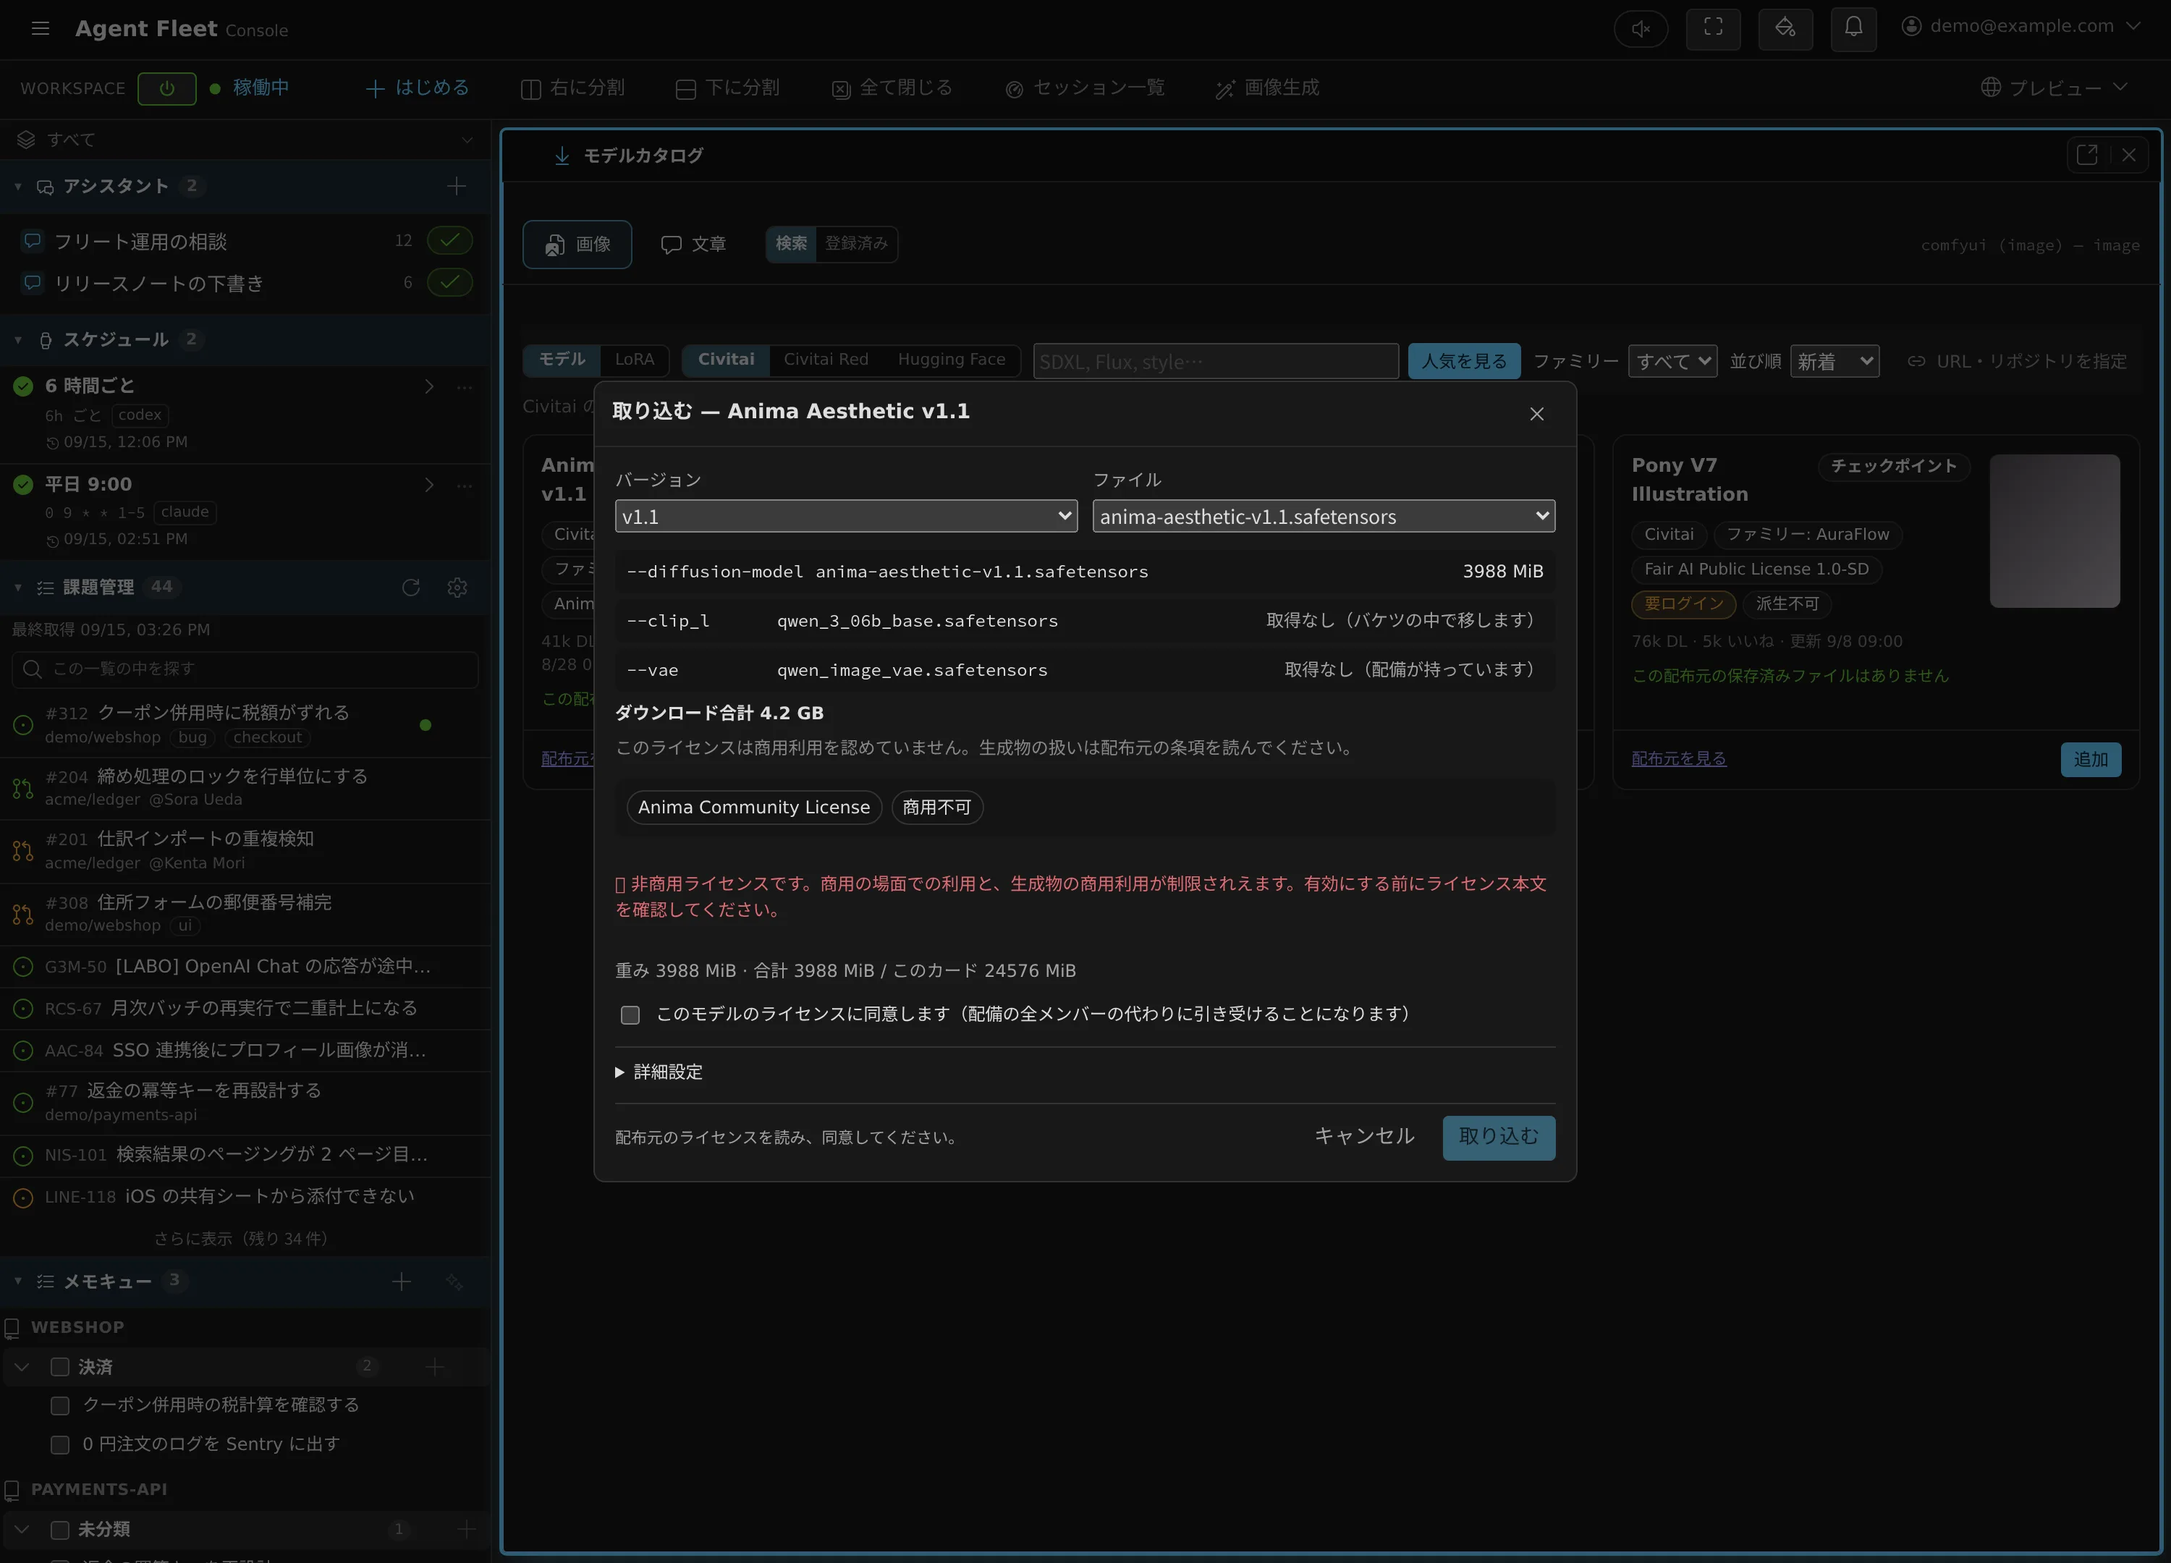
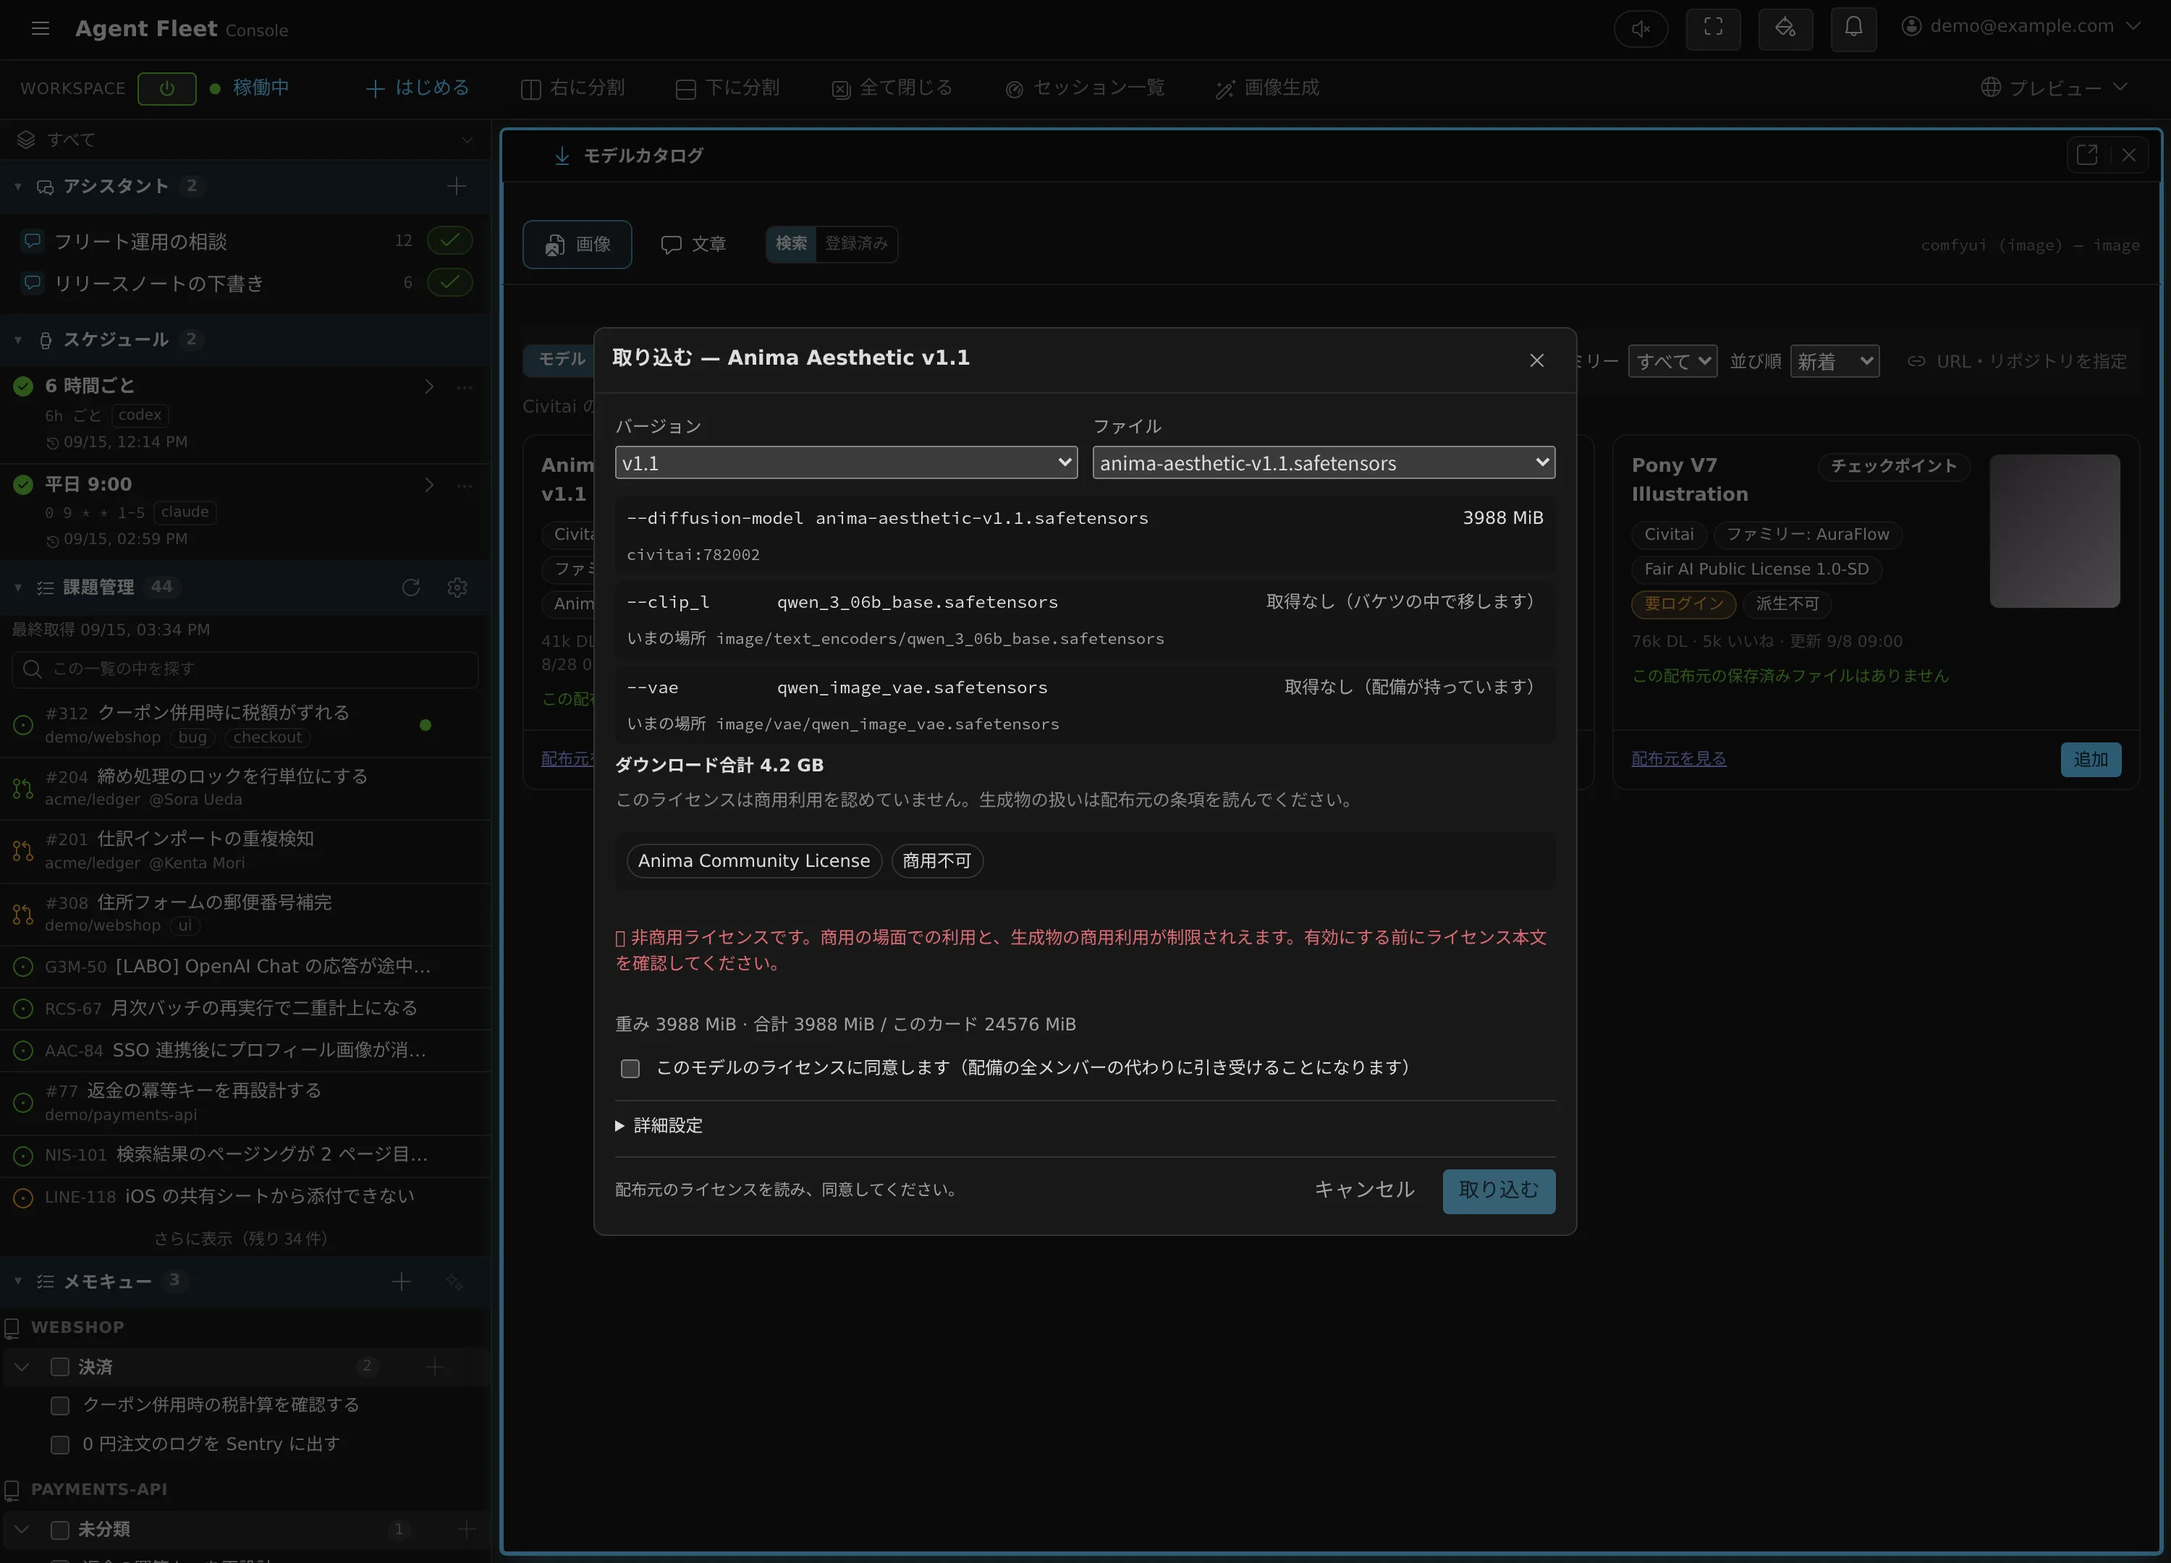
fix(console): CP レーン B の契約 2 点を計画カードに反映する（ADR 0085）
レーン B（PR #695）から届いた実装との差分のうち、画面側で対応が要る 2 点。

- `plan.files[].source` は action で意味が変わる。download なら上流のラベル、
  reuse/move なら**いまバイト列が置かれている S3 鍵**（move の出所が計画のハッシュに
  入るので、カードと押下の間でオブジェクトが動いたら移設ではなく token が古くなる）。
  分岐せずに描くと、「いまの場所」がリポジトリ名になるか、ダウンロードがバケツから
  来ているように読める。
- `POST …/ingest` の応答に `action` が増えた。reuse/move はネットワークを渡らないので、
  開始の知らせを「ダウンロードはありません」に切り替える。出てこない通信を待たせない。

`plan_token` は元から必ず送っており、resolve の旧フィールド（family_*）は読んでいない
ので変更なし。errors.ts はレーン B が入れた 2 行で足りるため触っていない（衝突なし）。

検証: dom テストに 2 点とも追加（source の 2 義を行ごとに、開始の知らせを action 別に）。
typecheck / lint / i18n:lint / test（2920 passed）/ build 緑。stub の fixture も契約に
合わせ、計画カードの撮り直し済み。

diff --git a/console/src/features/settings/admin/adminEngineCatalog.dom.test.tsx b/console/src/features/settings/admin/adminEngineCatalog.dom.test.tsx
@@ -182,15 +182,15 @@ describe("model catalogue pane", () => {
         plan: {
           plan_token: "plan-1", id: "anima-aesthetic-v1-1", base_model: "anima", main_flag: "--diffusion-model",
           files: [
-            { flag: "--diffusion-model", name: "anima-aesthetic-v1.1.safetensors", bytes: 4_180_000_000, action: "download", key: "image/diffusion_models/anima-aesthetic-v1.1.safetensors" },
-            { flag: "--clip_l", name: "qwen_3_06b_base.safetensors", bytes: 1_190_000_000, action: "download", key: "image/text_encoders/qwen_3_06b_base.safetensors" },
-            { flag: "--vae", name: "qwen_image_vae.safetensors", bytes: 253_800_000, action: "reuse", key: "image/vae/qwen_image_vae.safetensors" },
+            { flag: "--diffusion-model", name: "anima-aesthetic-v1.1.safetensors", bytes: 4_180_000_000, action: "download", source: "hf:circlestone-labs/Anima/anima-aesthetic-v1.1.safetensors", key: "image/diffusion_models/anima-aesthetic-v1.1.safetensors" },
+            { flag: "--clip_l", name: "qwen_3_06b_base.safetensors", bytes: 1_190_000_000, action: "download", source: "hf:circlestone-labs/Anima/qwen_3_06b_base.safetensors", key: "image/text_encoders/qwen_3_06b_base.safetensors" },
+            { flag: "--vae", name: "qwen_image_vae.safetensors", bytes: 253_800_000, action: "reuse", source: "image/vae/qwen_image_vae.safetensors", key: "image/vae/qwen_image_vae.safetensors" },
           ],
           bytes_to_download: 5_370_000_000,
           warnings: ["この族の VAE は既にこの配備にあります。"],
         },
       });
-      if (path.endsWith("/ingest")) { sent = body; return Promise.resolve({ id: "job1", model_id: "anima-aesthetic-v1-1", state: "pending" }); }
+      if (path.endsWith("/ingest")) { sent = body; return Promise.resolve({ id: "job1", model_id: "anima-aesthetic-v1-1", state: "pending", action: "download" }); }
       return Promise.resolve({});
     });
     await mount();
@@ -203,6 +203,11 @@ describe("model catalogue pane", () => {
     expect(plan.textContent).toContain("--clip_l");
     expect(plan.textContent).toContain("取得なし（配備が持っています）");
     expect(document.querySelector(".engine-plan-total")?.textContent).toContain("5.4 GB");
+    // 🔴 `source` carries two different things and the action is what says which: the upstream
+    // for a download, the key the bytes sit at today for a reuse or a move.
+    const lines = Array.from(plan.querySelectorAll("li"));
+    expect(lines[0].querySelector(".engine-plan-source")?.textContent).toBe("hf:circlestone-labs/Anima/anima-aesthetic-v1.1.safetensors");
+    expect(lines[2].querySelector(".engine-plan-source")?.textContent).toBe("いまの場所 image/vae/qwen_image_vae.safetensors");
     // The commercial-use verdict is said ONCE, as the sentence: a chip saying the same thing in
     // another wording beside it reads as two separate restrictions.
     expect(document.querySelector("p.form-err")?.textContent).toContain("非商用ライセンスです");
@@ -221,6 +226,7 @@ describe("model catalogue pane", () => {
     for (const gone of ["s3Key", "reuse_s3_key", "attach", "replace", "file_flag", "with_family_parts", "with_family_vae"]) {
       expect(sent?.[gone]).toBeUndefined();
     }
+    expect(document.body.textContent).toContain("取り込みを開始しました");
   });
 
   // 🔴 The plan is a quote and the press is the purchase. A card can sit open for minutes, and
@@ -248,7 +254,10 @@ describe("model catalogue pane", () => {
             files: [{ name: "model.safetensors", action: "download", bytes: 3_000_000_000 }], bytes_to_download: 3_000_000_000,
           } } });
         }
-        return Promise.resolve({ id: "job2", model_id: "example", state: "pending" });
+        // A press the CP answered with `reuse`: the bytes were already here, so nothing crosses
+        // the network — and telling somebody to watch a download would be telling them to watch
+        // for something that never appears.
+        return Promise.resolve({ id: "job2", model_id: "example", state: "pending", action: "reuse" });
       }
       return Promise.resolve({});
     });
@@ -266,6 +275,7 @@ describe("model catalogue pane", () => {
     await acceptLicence();
     await click(button("取り込む"));
     expect(sent[1]?.plan_token).toBe("fresh");
+    expect(document.body.textContent).toContain("ダウンロードはありません");
   });
 
   it("asks for a family only when the CP could not read one, and only from its candidates", async () => {

diff --git a/console/src/features/settings/admin/adminEngineAdd.tsx b/console/src/features/settings/admin/adminEngineAdd.tsx
@@ -235,9 +235,12 @@ function CatalogBrowser({ row, kind, onKind, readOnly, onChanged, image }: Catal
         count={hits?.length || 0} onMore={() => void search(true)} />}
       {plan && <IngestPlanDialog row={row} kind={kind} hit={plan.hit} initialSource={plan.source}
         onClose={() => setPlan(null)}
-        onStarted={() => {
+        onStarted={(job) => {
           setPlan(null);
-          setStarted(tr("admin.catalog_started" as never) as string);
+          // Which of the three the press turned out to be: a reuse or a move crosses no network,
+          // so telling somebody to watch a download would have them watching for nothing.
+          setStarted(tr((job?.action && job.action !== "download"
+            ? "admin.catalog_started_no_download" : "admin.catalog_started") as never) as string);
           void loadObjects();
           onChanged();
         }} />}
@@ -1043,6 +1046,12 @@ function IngestPlanDialog({ row, kind, hit, initialSource, onClose, onStarted }:
           <span className={`engine-plan-cost${planned.action === "download" ? "" : " free"}`}>{planned.action === "download"
             ? (planned.bytes ? `${Math.round(planned.bytes / 1048576)} MiB` : tr("admin.catalog_size_unknown" as never))
             : tr((`admin.catalog_plan_action_${planned.action}`) as never)}</span>
+          {/* One field, two meanings, told apart by the action: the upstream for a download and
+              the key the bytes are at TODAY for a reuse or a move. Drawn unbranched, "いまの場所"
+              would name a repository and a download would claim to come from the bucket. */}
+          {planned.source && <span className="muted mono engine-plan-source">{planned.action === "download"
+            ? planned.source
+            : (tr("admin.catalog_plan_at" as never) as string).replace("{k}", planned.source)}</span>}
         </li>)}</ul>
         <p className="engine-plan-total">{plan.bytes_to_download
           ? (tr("admin.catalog_plan_total" as never) as string).replace("{n}", formatBytes(plan.bytes_to_download))

diff --git a/console/src/lib/i18n/locales/ja/admin.ts b/console/src/lib/i18n/locales/ja/admin.ts
@@ -363,6 +363,7 @@ export const admin = {
   "admin.catalog_plan_action_reuse": "取得なし（配備が持っています）",
   "admin.catalog_plan_action_move": "取得なし（バケツの中で移します）",
   "admin.catalog_plan_action_unknown": "この配備には部品表がありません",
+  "admin.catalog_plan_at": "いまの場所 {k}",
   "admin.catalog_plan_total": "ダウンロード合計 {n}",
   "admin.catalog_plan_total_none": "ダウンロードは発生しません。",
   // 計画は見積りで、押すことが購入。押した時点で内容が変わっていたら作り直して見せ直す
@@ -371,6 +372,8 @@ export const admin = {
   "admin.catalog_commercial_yes": "商用可",
   "admin.catalog_commercial_unknown": "商用可否は不明",
   "admin.catalog_started": "取り込みを開始しました。進み具合は「登録済み」タブのバケツで見られます。",
+  // 再利用と移設はネットワークを渡らない。「ダウンロード中」と書くと、出てこない通信を待たせる。
+  "admin.catalog_started_no_download": "配備が既に持っているバイト列から作りました（ダウンロードはありません）。「登録済み」タブのバケツで確認できます。",
   // --- バケツ（ADR 0085 決定 2・7）。S3 が持っているものそのもの。---
   "admin.catalog_ledger_title": "バケツ",
   "admin.catalog_ledger_note": "このエンジンのプレフィックスにあるオブジェクトです。どの行も宣言していないもの（孤児）と、ローダーが一覧できない場所にあるもの（誤配置）を先に並べます。部品に単体のボタンはありません——付け直すのはチェックポイント行の「揃える」です。",

diff --git a/console/src/lib/i18n/locales/en/admin.ts b/console/src/lib/i18n/locales/en/admin.ts
@@ -371,6 +371,7 @@ export const admin: Record<keyof typeof jaAdmin, string> = {
   "admin.catalog_plan_action_reuse": "no download (already held)",
   "admin.catalog_plan_action_move": "no download (moved inside the bucket)",
   "admin.catalog_plan_action_unknown": "no part list in this deployment",
+  "admin.catalog_plan_at": "currently at {k}",
   "admin.catalog_plan_total": "{n} to download",
   "admin.catalog_plan_total_none": "Nothing is downloaded.",
   // The plan is a quote and the press is the purchase. When anything material moved the card is
@@ -379,6 +380,8 @@ export const admin: Record<keyof typeof jaAdmin, string> = {
   "admin.catalog_commercial_yes": "commercial use allowed",
   "admin.catalog_commercial_unknown": "commercial use unknown",
   "admin.catalog_started": "Taking it in. Progress is on the bucket under the Registered tab.",
+  // A reuse and a move cross no network: "downloading" would have somebody watch for nothing.
+  "admin.catalog_started_no_download": "Built from bytes this deployment already held (nothing was downloaded). It is on the bucket under the Registered tab.",
   // --- The bucket (ADR 0085 decisions 2 and 7): what S3 holds, as it holds it. ---
   "admin.catalog_ledger_title": "Bucket",
   "admin.catalog_ledger_note": "The objects under this engine's prefix. Ones no row declares (orphans) and ones no loader can list (misplaced) sort first. A part has no button of its own — it is attached by the Complete of the checkpoint that reads it.",

diff --git a/console/src/features/settings/admin/engineTypes.ts b/console/src/features/settings/admin/engineTypes.ts
@@ -273,6 +273,11 @@ export type IngestPlanFile = {
   name: string;
   bytes?: number;
   action: "download" | "reuse" | "move" | "unknown";
+  /** 🔴 TWO meanings, told apart by `action`: the upstream label (`hf:owner/repo/file`) for a
+   *  download, and the S3 key the bytes occupy TODAY for a reuse or a move. The CP keeps it one
+   *  field on purpose — a move's origin then rides inside the plan's hash, so an object that
+   *  wanders between the card and the press makes the token stale instead of being moved from a
+   *  key it has left. The card must branch on `action` before drawing it as either. */
   source?: string;
   /** Where it lands. Composed by the CP alone since ADR 0085 decision 1 — the Console neither
    *  builds nor sends a key, it only shows the one it is told. */
@@ -524,6 +529,11 @@ export type IngestJob = {
   model_id: string;
   s3_key?: string;
   source?: string;
+  /** Which of the three the press turned out to be (ADR 0085 decision 1). Only on the answer to
+   *  `POST …/ingest`: the job row itself cannot say it, because a move and a download are the
+   *  same task to the reconciler — and it is the one thing the person who just pressed wants to
+   *  know before any progress appears. */
+  action?: "download" | "reuse" | "move";
   state: string;
   message?: string;
   /** What the operator has to DO about a failure, read by the CP out of the status in the

diff --git a/console/src/features/settings/admin/admin.css b/console/src/features/settings/admin/admin.css
@@ -1400,6 +1400,7 @@ a.engines-model-source:hover {
   background: var(--panel2);
 }
 .engine-plan-name { min-width: 0; overflow-wrap: anywhere; }
+.engine-plan-source { grid-column: 1 / -1; font-size: 11px; overflow-wrap: anywhere; }
 .engine-plan-cost { white-space: nowrap; }
 .engine-plan-cost.free { color: var(--dialog-muted); }
 .engine-plan-total { margin: 0; font-size: 12px; font-weight: 600; }
